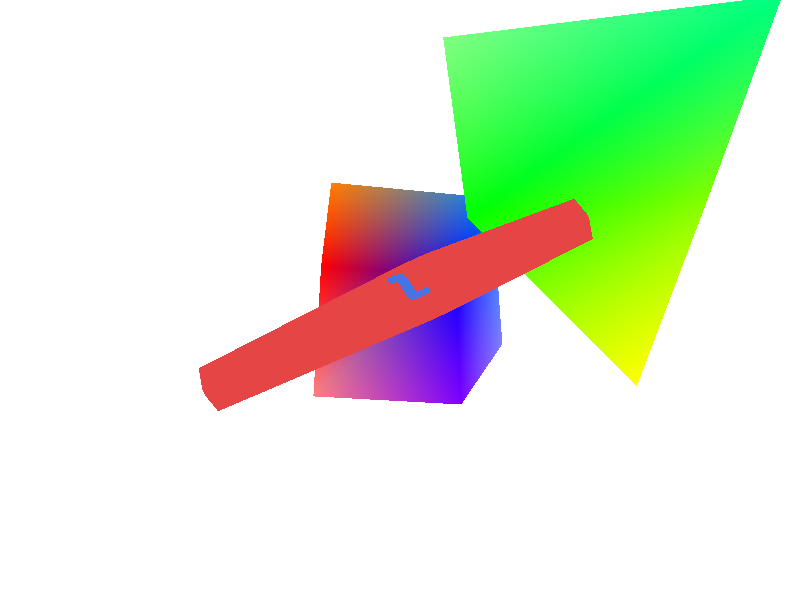
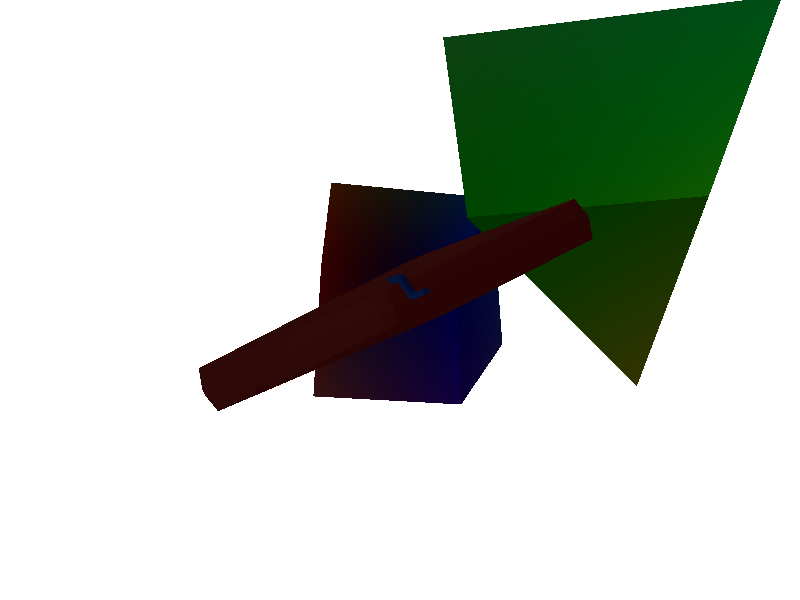
screen-13-cli-1 - WIP 8 - Add lighting.

Changed region(s): [[0.25, 0.0, 1.0, 0.69]]

diff --git a/screen-13-cli-1/src/main.rs b/screen-13-cli-1/src/main.rs
@@ -24,6 +24,11 @@ struct Vertex {
 #[derive(Clone, Copy, Pod, Zeroable)]
 struct PushConstants {
     mvp: [[f32; 4]; 4],
+    model: [[f32; 4]; 4],
+    light_pos: [f32; 3],
+    light_intensity: f32,
+    light_color: [f32; 3],
+    _padding: f32, // Align to 16 bytes
 }
 
 fn main() -> Result<(), Box<dyn std::error::Error>> {
@@ -199,6 +204,24 @@ fn main() -> Result<(), Box<dyn std::error::Error>> {
     loop {
         let t = frame_index as f32 / FRAME_COUNT as f32;
 
+        // --- Light Animation ---
+        // Orbit the light around the scene
+        let light_orbit_radius = 8.0;
+        let light_height = 5.0;
+        let light_angle = t * TAU;
+        let light_pos = Vec3::new(
+            light_orbit_radius * light_angle.cos(),
+            light_height + 2.0 * (t * TAU * 2.0).sin(), // Also animate height
+            light_orbit_radius * light_angle.sin(),
+        );
+
+        // Animate light intensity (pulse between 0.5 and 2.0)
+        let light_intensity = 1.0 + 0.5 * (t * TAU * 3.0).sin();
+
+        // Animate light color (shift through colors)
+        let light_hue = (t * 0.5) % 1.0;
+        let light_color = hsv_to_rgb(light_hue, 0.8, 1.0);
+
         // --- Rotation ---
         let cube_rotation = t * TAU;
         let cube_model = Mat4::from_rotation_y(cube_rotation);
@@ -229,17 +252,34 @@ fn main() -> Result<(), Box<dyn std::error::Error>> {
         let pyramid_mvp = projection * view * pyramid_model;
         let model_mvp = projection * view * model_model;
 
+        // Create push constants with lighting info
         let cube_push_constants = PushConstants {
             mvp: cube_mvp.to_cols_array_2d(),
+            model: cube_model.to_cols_array_2d(),
+            light_pos: light_pos.to_array(),
+            light_intensity,
+            light_color,
+            _padding: 0.0,
         };
 
         let pyramid_push_constants = PushConstants {
             mvp: pyramid_mvp.to_cols_array_2d(),
+            model: pyramid_model.to_cols_array_2d(),
+            light_pos: light_pos.to_array(),
+            light_intensity,
+            light_color,
+            _padding: 0.0,
         };
 
         let model_push_constants = PushConstants {
             mvp: model_mvp.to_cols_array_2d(),
+            model: model_model.to_cols_array_2d(),
+            light_pos: light_pos.to_array(),
+            light_intensity,
+            light_color,
+            _padding: 0.0,
         };
+
 
         let readback = Arc::new(Buffer::create(
             &device,
